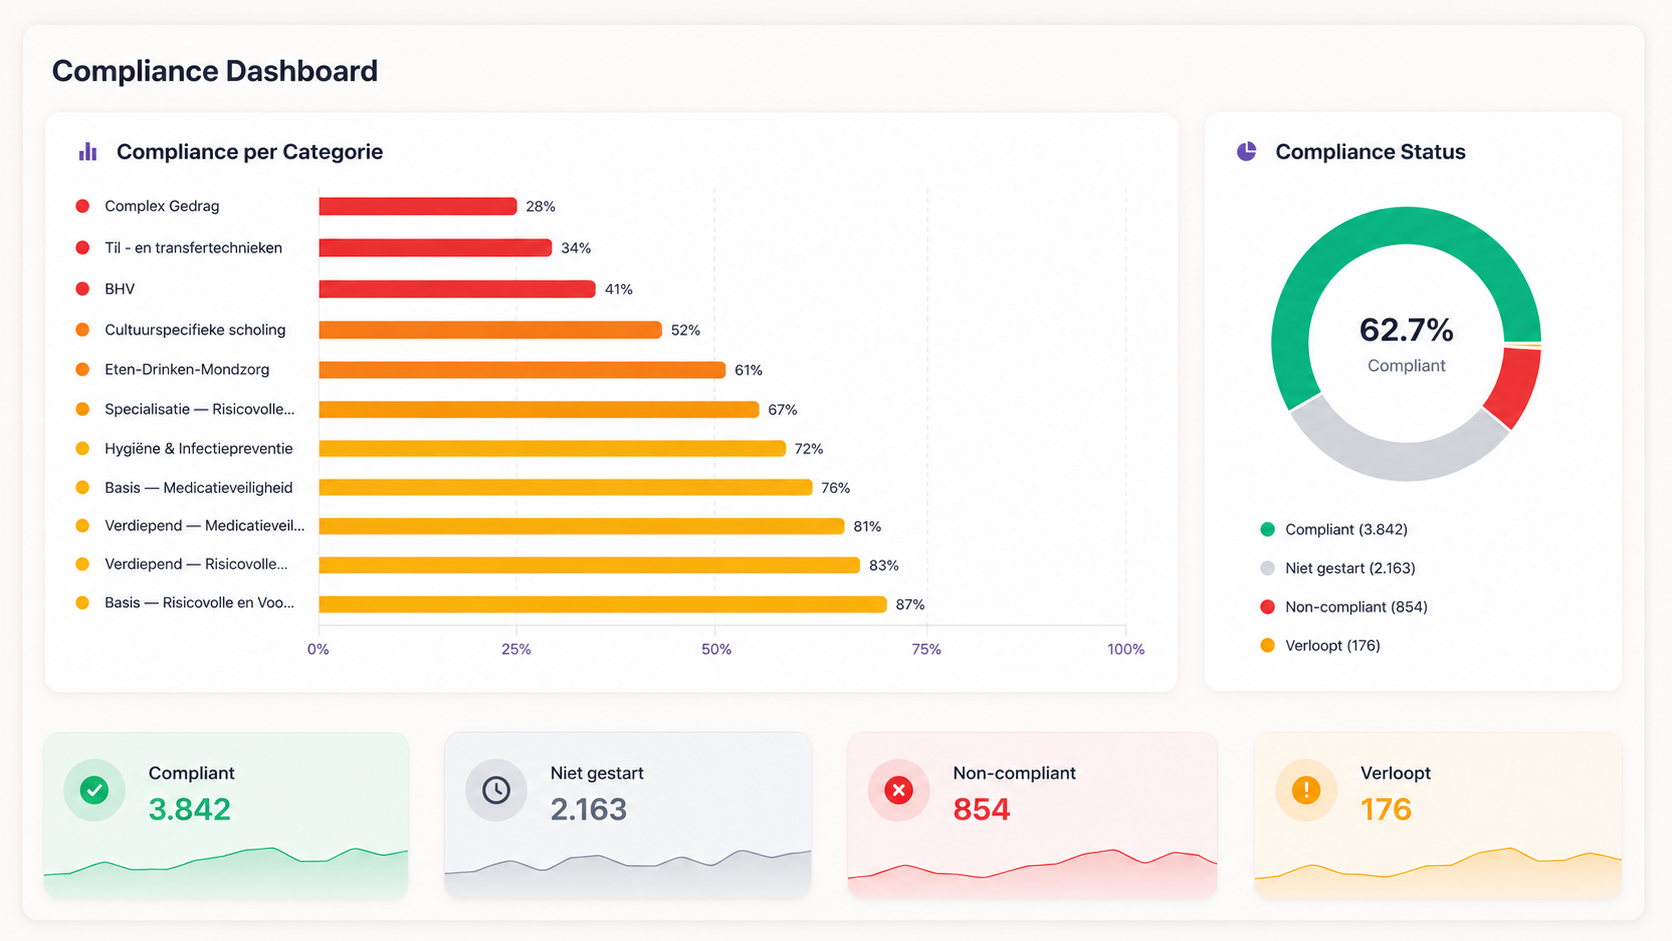
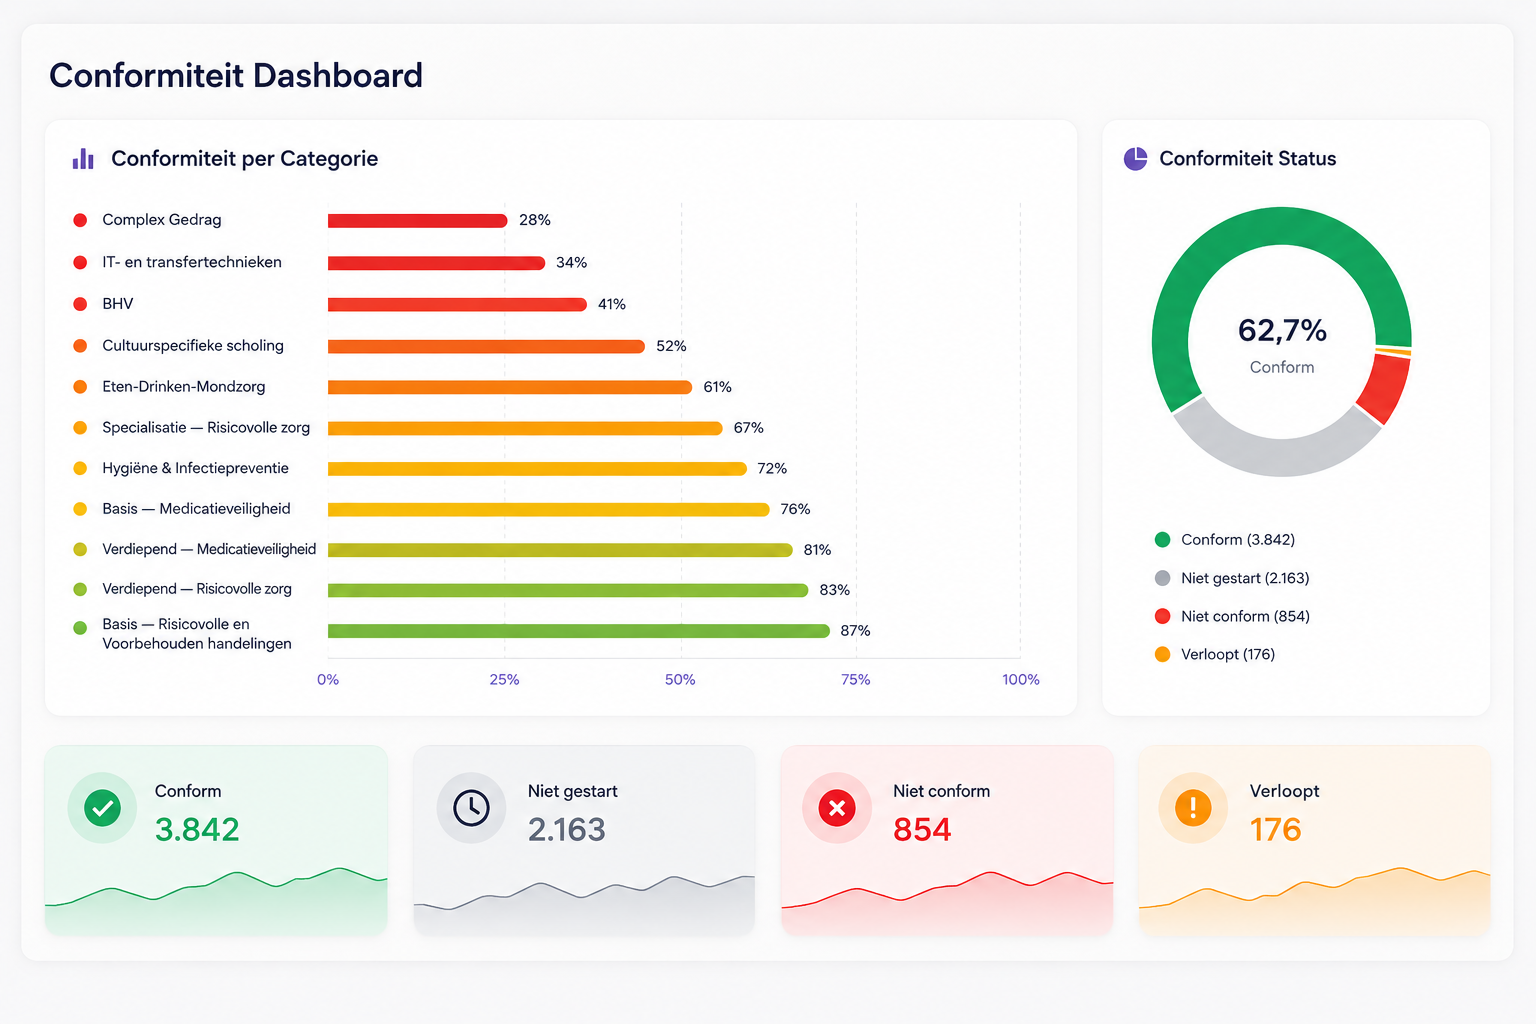
Update statistieken screenshot naar conformiteit dashboard, compliance uit tekst

diff --git a/index.html b/index.html
@@ -163,7 +163,7 @@ footer{padding:10px 24px 20px;text-align:center;font-size:10px;color:#bbb}
       <g class="lbl">
         <rect class="bg" x="340" y="680" width="370" height="175" stroke="#3D2C8D" stroke-width="2.5"/>
         <text class="nm" x="352" y="702" fill="#3D2C8D">Statistieken</text>
-        <text class="ds" x="352" y="718">Compliance, KPI's en trends in een dashboard. Maakt zichtbaar</text>
+        <text class="ds" x="352" y="718">KPI's en trends in een dashboard. Maakt zichtbaar</text>
         <text class="ds" x="352" y="728">wat goed gaat en waar verbetering nodig is.</text>
         <image href="screenshot-statistieken.png" x="350" y="735" width="350" height="115" preserveAspectRatio="xMidYMin slice"/>
       </g>
@@ -272,7 +272,7 @@ const modules = {
   },
   statistieken: {
     title: 'Statistieken',
-    desc: 'Compliance, KPI\'s en trends in een dashboard. Maakt zichtbaar wat goed gaat en waar verbetering nodig is. Toont per categorie de voortgang en geeft een totaaloverzicht van de compliance status.',
+    desc: 'KPI\'s en trends in een dashboard. Maakt zichtbaar wat goed gaat en waar verbetering nodig is. Toont per categorie de voortgang en geeft een totaaloverzicht van de conformiteit status.',
     img: 'screenshot-statistieken.png'
   },
   gesprekken_mw: {
